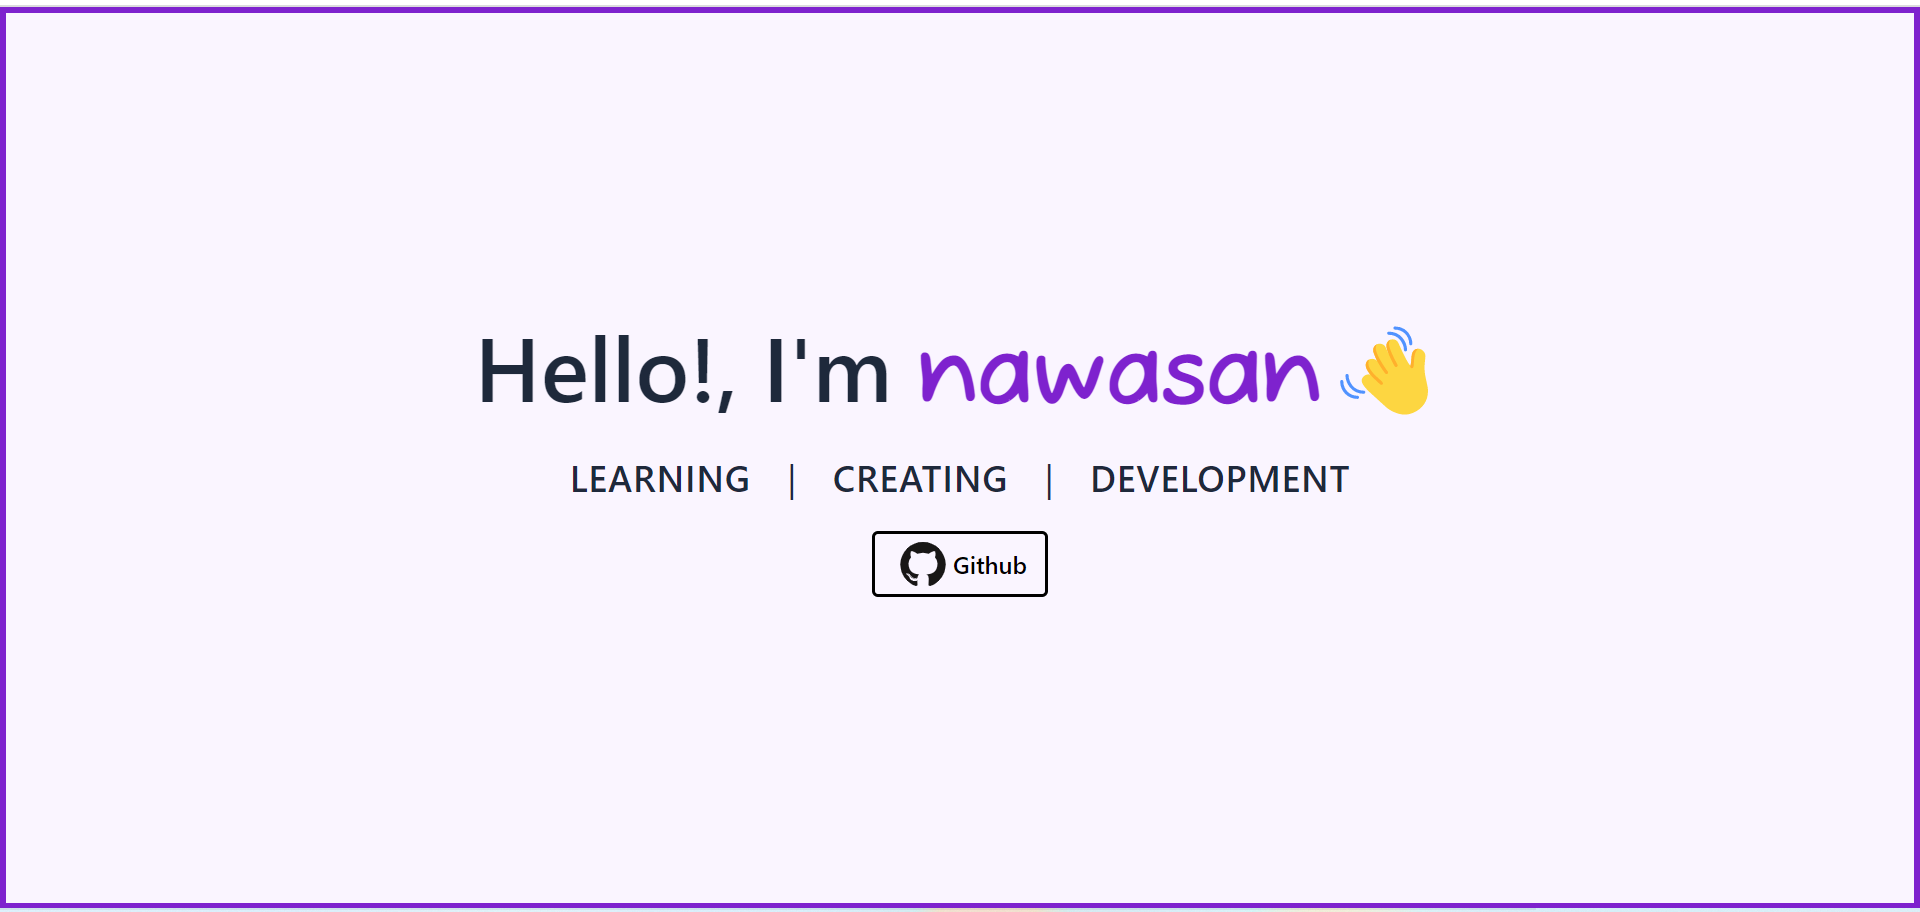
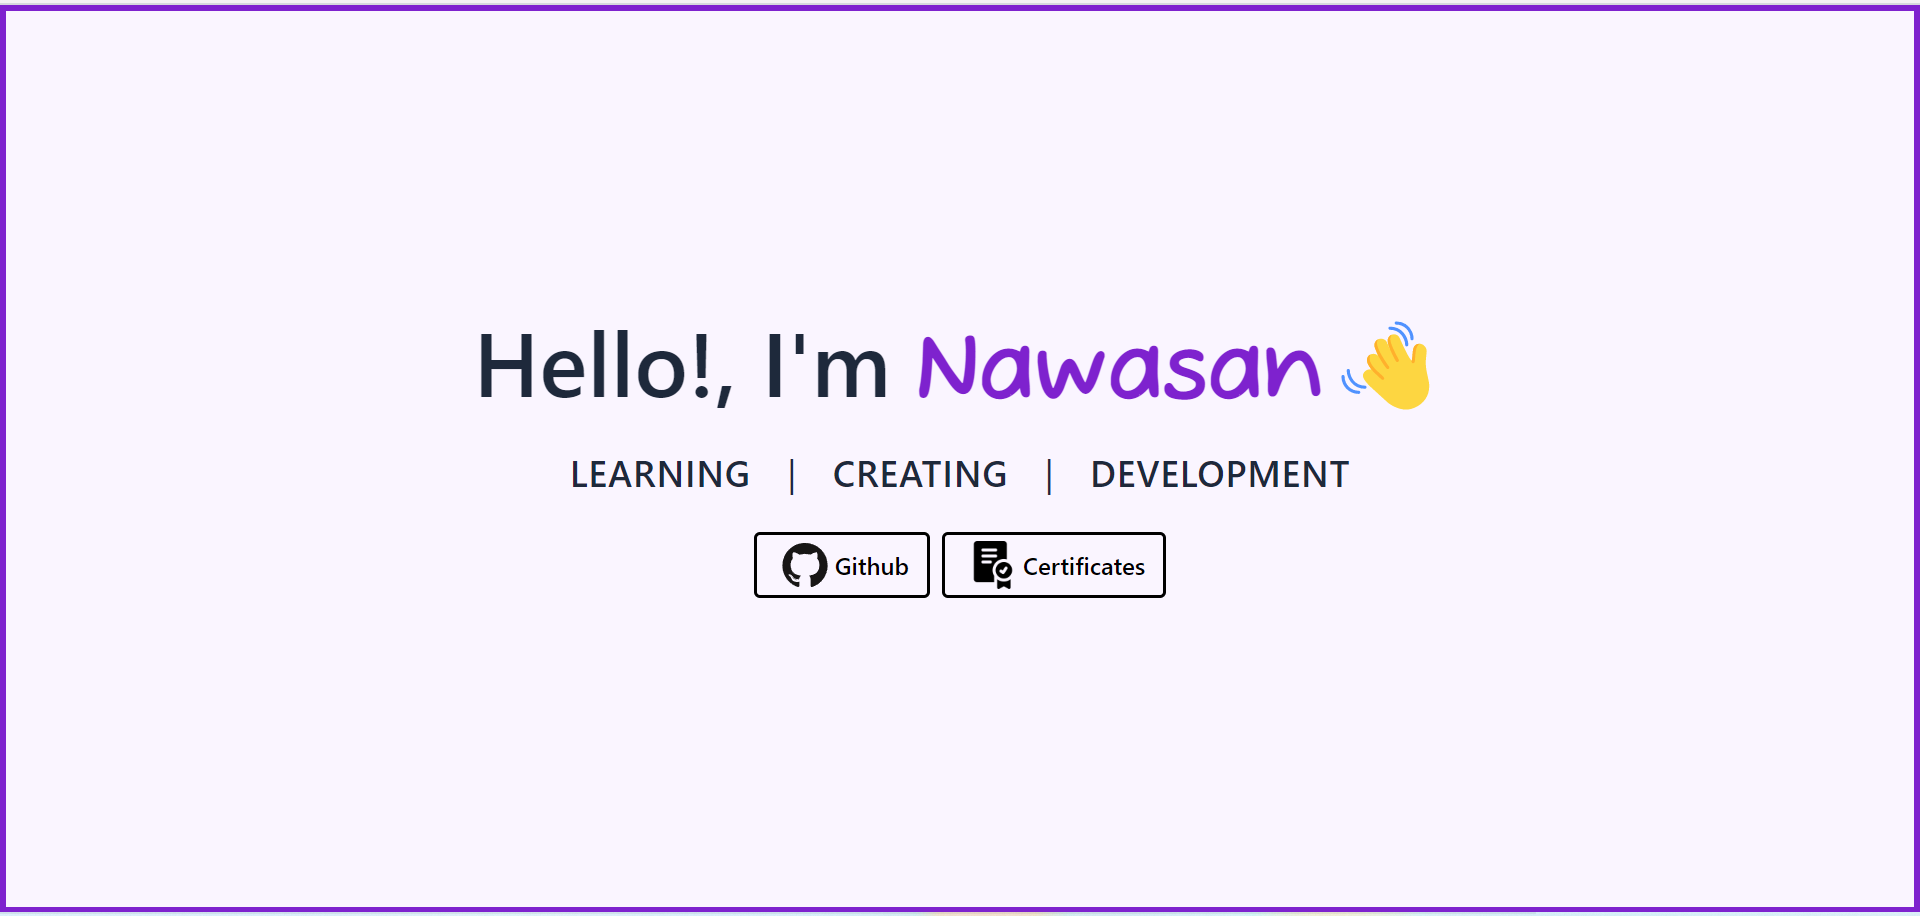
add certificates and update many

diff --git a/src/App.svelte b/src/App.svelte
@@ -1,21 +1,29 @@
 <script>
   import "./App.css";
-  import GithubIcon from "./components/ButtonContact.svelte";
+  import ButtonContact from "./components/ButtonContact.svelte";
   import ThreeWord from "./components/ThreeWord.svelte";
 </script>
 
-<main
-  class="min-h-screen bg-purple-50 border-4 border-purple-700 flex justify-center items-center box-border flex-col"
->
+<main class="main">
   <div class="text-3xl sm:text-6xl text-slate-800 font-medium">
-    Hello!, I'm <span class="text-purple-700 use-font font-bold">Nawasan</span><span
+    Hello!, I'm <span class="text-purple-700 use-font font-bold">Nawasan</span
+    ><span
       class="inline-block hover:rotate-45 duration-300 ease-in-out transition"
       >👋</span
     >
   </div>
   <ThreeWord />
-  <div>
-    <GithubIcon title="Github" icon="/github.svg" link="https://github.com/Arikato111" />
+  <div class="flex flex-wrap items-center justify-center">
+    <ButtonContact
+      title="Github"
+      icon="/icons/github.svg"
+      link="https://github.com/Arikato111"
+    />
+    <ButtonContact
+      title="Certificates"
+      icon="/icons/certificate.png"
+      link="/certificates"
+    />
   </div>
 </main>
 

diff --git a/src/pages/Certificate.svelte b/src/pages/Certificate.svelte
@@ -1,0 +1,20 @@
+<script>
+  import CertificateShow from "../components/CertificateShow.svelte";
+  import ButtonContact from "../components/ButtonContact.svelte";
+  import CertificateData from "../Data/CertificatesData.json";
+
+  console.log(CertificateData);
+</script>
+
+<main class="min-h-screen bg-purple-50 box-border border-4 border-purple-700">
+  <div class="inline-block">
+    <ButtonContact icon="/icons/arrow.png" link="/" title="back" />
+  </div>
+  <div
+    class="grid grid-cols-1 sm:grid-cols-2 lg:grid-cols-3 2xl:grid-cols-4 text-center"
+  >
+    {#each CertificateData as Cer}
+      <CertificateShow src={Cer.img} link={Cer.link} alt={Cer.title} />
+    {/each}
+  </div>
+</main>

diff --git a/src/components/CertificateShow.svelte b/src/components/CertificateShow.svelte
@@ -1,0 +1,22 @@
+<script>
+  import Atropos from "atropos/svelte";
+  export let src = "";
+  export let alt = "";
+  export let link = "";
+  let domain = "https://hack1.hackathailand.com";
+</script>
+
+<div
+  class=" lg:hover:scale-125 transition-all duration-500 inline-block"
+>
+  <a class="m-10 inline-block" target="_blank" rel="noreferrer" href={domain + link}>
+    <Atropos class="my-atropos inline-block">
+      <img
+        class="w-80 shadow-lg shadow-gray-400 rounded-lg border-2 border-purple-300"
+        {src}
+        {alt}
+        title={alt}
+      />
+    </Atropos>
+  </a>
+</div>

diff --git a/src/components/ButtonContact.svelte b/src/components/ButtonContact.svelte
@@ -6,7 +6,7 @@
 
 <a href={link}>
   <div
-    class="flex justify-center items-center rounded border-2 py-1 px-3 font-medium border-black hover:bg-purple-100"
+    class="flex justify-center items-center rounded border-2 py-1 px-3 font-medium border-black hover:bg-purple-100 m-1"
   >
     <img class="inline-block w-8 mx-1" src={icon} alt="github icon" />{title}
   </div>

diff --git a/src/Routes.svelte b/src/Routes.svelte
@@ -1,0 +1,15 @@
+<script>
+  import App from "./App.svelte";
+  import Certificate from "./pages/Certificate.svelte";
+</script>
+
+<svelte:window />
+{#if window.location.pathname === "/"}
+  <App />
+{:else if window.location.pathname === "/certificates"}
+  <Certificate />
+{:else}
+  <script>
+    window.location.pathname = "/"
+  </script>
+{/if}

diff --git a/src/index.css b/src/index.css
@@ -1,0 +1,14 @@
+/* Write your global styles here, in PostCSS syntax */
+
+@tailwind base;
+
+@tailwind components;
+
+@tailwind utilities;
+
+
+@layer components {
+    .main {
+        @apply min-h-screen bg-purple-50 border-4 border-purple-700 flex justify-center items-center box-border flex-col;
+    }
+}

diff --git a/src/main.js b/src/main.js
@@ -1,7 +1,8 @@
-import "./app.postcss";
-import App from "./App.svelte";
+import './index.css'
+import 'atropos/css'
+import Routes from './Routes.svelte'
 
-const app = new App({
+const app = new Routes({
   target: document.getElementById("app"),
 });
 

diff --git a/index.html b/index.html
@@ -3,7 +3,7 @@
 
 <head>
   <meta charset="UTF-8" />
-  <link rel="shortcut icon" href="/Na.svg">
+  <link rel="shortcut icon" href="/icons/Na.svg">
   <meta name="viewport" content="width=device-width, initial-scale=1.0" />
   <title>Nawasan</title>
 
